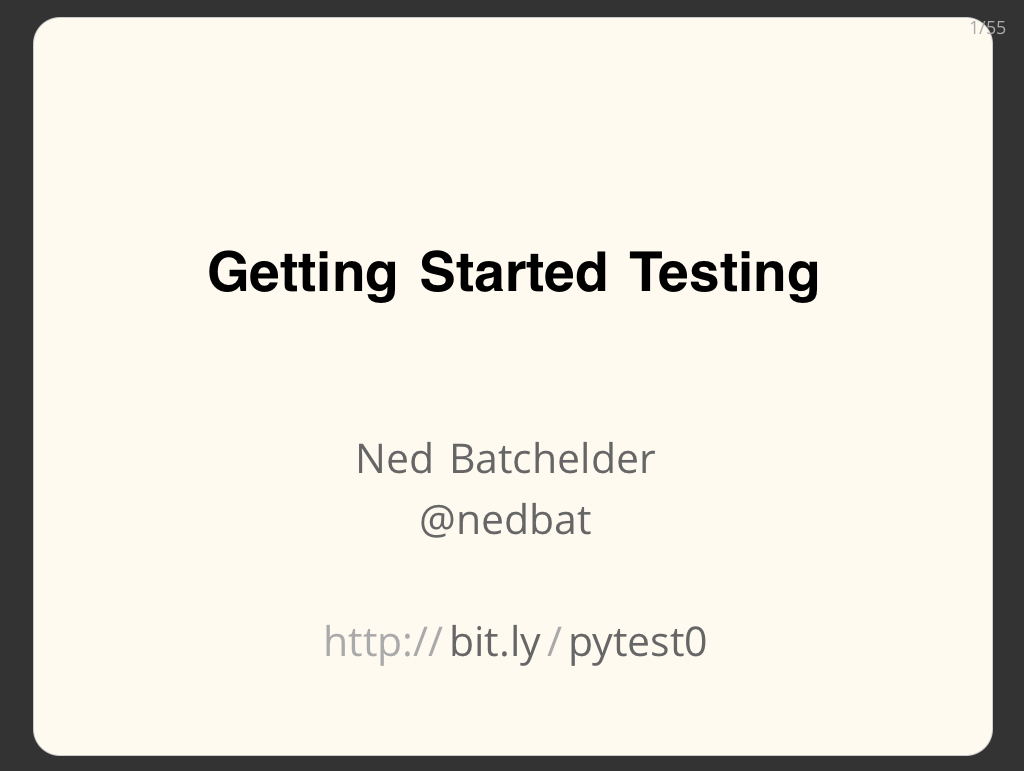
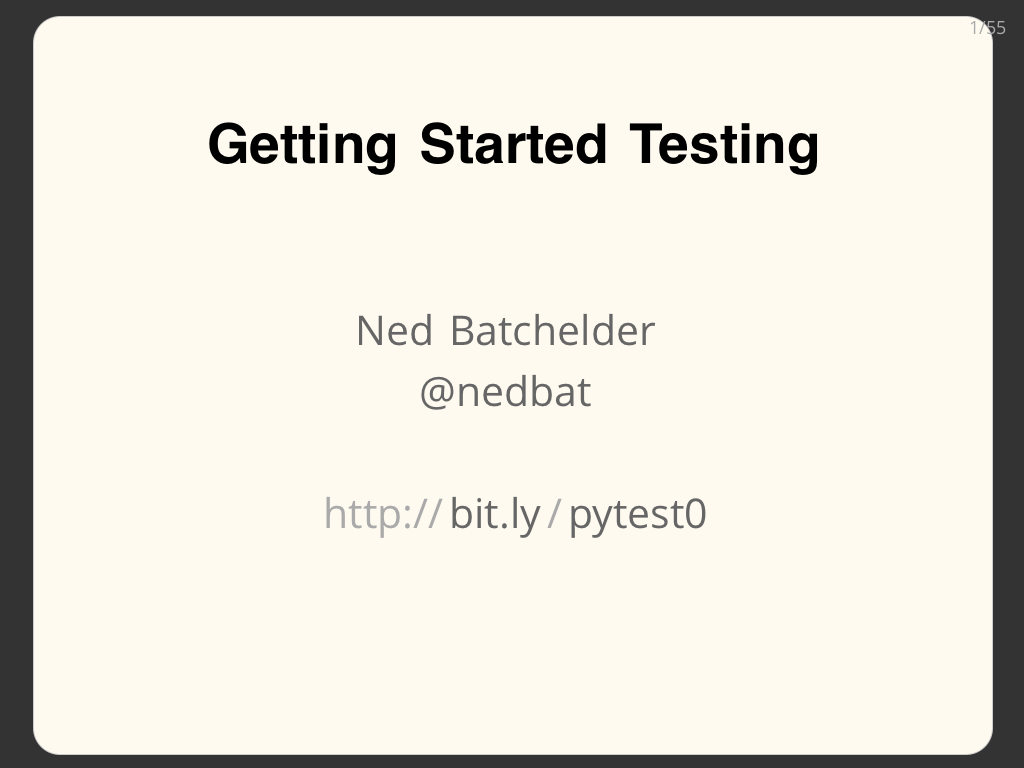
The final version of the talk

diff --git a/pages/text/test0/test0.html b/pages/text/test0/test0.html
@@ -238,7 +238,7 @@ from cogutil import *
         }
 
         .slide .code {
-            font-family: monaco, Consolas, monaco, monospace;
+            font-family: Consolas, monaco, monospace;
             font-weight: 600;
             margin-top: 1em;
             background: #ccf;
@@ -446,23 +446,21 @@ from cogutil import *
 
 <div class="text"><!-- {{{ -->
 
-    <p>This is a presentation I am giving at PyCon 2014.  You can read the
-    slides and text on this page, or open the <a href="text/test0/test0.html">actual presentation</a>
-    in your browser (use right and left arrows to advance the slides).</p>
-    <!--
+    <p>This is a presentation I gave at PyCon 2014.  You can read the
+    slides and text on this page, open the <a href="text/test0/test0.html">actual presentation</a>
+    in your browser (use right and left arrows to advance the slides),
     or watch the video:</p>
 
     <p align="center">
-    <iframe width="500" height="369" src="http://www.youtube.com/embed/EnSu9hHGq5o" frameborder="0" allowfullscreen="allowfullscreen"></iframe>
+    <iframe width="500" height="369" src="http://www.youtube.com/embed/FxSsnHeWQBY" frameborder="0" allowfullscreen="allowfullscreen"></iframe>
     </p>
-    -->
 
     <p>There is also a zipfile of <a href='text/test0/test0.zip'>all the code examples</a>.</p>
 
 </div><!-- }}} -->
 
 <div class="slide title" data-layout="clean">
-    <h1>Getting Started Testing</h1>
+    <h1 style="margin-top:-2em;">Getting Started Testing</h1>
     <h2>Ned Batchelder
     <br/>@nedbat
     <br/>
@@ -578,7 +576,7 @@ from cogutil import *
 
 <div class="slide">
     <h1>Chaos!</h1>
-    <p style='text-align: center'><img src='dadtoon-chaos-2.png' width="50%"/></p>
+    <p style='text-align: center; margin-top:-1em'><img src='dadtoon-chaos-2.png' width="60%"/></p>
 </div>
 
 <div class="text"><!-- {{{ -->
@@ -1062,14 +1060,20 @@ assert p.cost() == 21263.0
     <!--
     $ python porttest3_broken.py
     Empty portfolio cost: 0.0, should be 0.0
-    With 100 IBM @ 176.48: 17648.0, should be 17648.0
-    With 100 HPQ @ 36.15: 21263.0, should be 21263.0
+    With 100 IBM @ 176.48: 17648.0, should be 17600.0
+    Traceback (most recent call last):
+      File "porttest3_broken.py", line 9, in <module>
+        assert p.cost() == 17600.0
+    AssertionError
     -->
     <div class="code text"> <!-- {{{ -->
     <div class="line"><span class="lineno">1</span> $&#xA0;python&#xA0;porttest3_broken.py&nbsp;</div>
     <div class="line"><span class="lineno">2</span> Empty&#xA0;portfolio&#xA0;cost:&#xA0;0.0,&#xA0;should&#xA0;be&#xA0;0.0&nbsp;</div>
-    <div class="line"><span class="lineno">3</span> With&#xA0;100&#xA0;IBM&#xA0;@&#xA0;176.48:&#xA0;17648.0,&#xA0;should&#xA0;be&#xA0;17648.0&nbsp;</div>
-    <div class="line"><span class="lineno">4</span> With&#xA0;100&#xA0;HPQ&#xA0;@&#xA0;36.15:&#xA0;21263.0,&#xA0;should&#xA0;be&#xA0;21263.0&nbsp;</div>
+    <div class="line"><span class="lineno">3</span> With&#xA0;100&#xA0;IBM&#xA0;@&#xA0;176.48:&#xA0;17648.0,&#xA0;should&#xA0;be&#xA0;17600.0&nbsp;</div>
+    <div class="line"><span class="lineno">4</span> Traceback&#xA0;(most&#xA0;recent&#xA0;call&#xA0;last):&nbsp;</div>
+    <div class="line"><span class="lineno">5</span> &#xA0;&#xA0;File&#xA0;&quot;porttest3_broken.py&quot;,&#xA0;line&#xA0;9,&#xA0;in&#xA0;&lt;module&gt;&nbsp;</div>
+    <div class="line"><span class="lineno">6</span> &#xA0;&#xA0;&#xA0;&#xA0;assert&#xA0;p.cost()&#xA0;==&#xA0;17600.0&nbsp;</div>
+    <div class="line"><span class="lineno">7</span> AssertionError&nbsp;</div>
     </div><!-- }}} -->
     <!--[[[end]]] }}}-->
     <ul>
@@ -1092,8 +1096,11 @@ assert p.cost() == 21263.0
 <code lang='text'>
 $ python porttest3_broken.py
 Empty portfolio cost: 0.0, should be 0.0
-With 100 IBM @ 176.48: 17648.0, should be 17648.0
-With 100 HPQ @ 36.15: 21263.0, should be 21263.0
+With 100 IBM @ 176.48: 17648.0, should be 17600.0
+Traceback (most recent call last):
+  File "porttest3_broken.py", line 9, in &lt;module>
+    assert p.cost() == 17600.0
+AssertionError
 </code>
 <!--[[[end]]] }}}-->
 
@@ -2020,7 +2027,7 @@ FAILED (errors=1)
     TypeError: buy() takes exactly 4 arguments (2 given)
 
     ––––––––––––––––––––––––––––––––––––––––––––––––––––––––––––
-    Ran 4 tests in 0.001s
+    Ran 4 tests in 0.000s
 
     FAILED (errors=1)
     -->
@@ -2036,7 +2043,7 @@ FAILED (errors=1)
     <div class="line"><span class="lineno"> 9</span> TypeError:&#xA0;buy()&#xA0;takes&#xA0;exactly&#xA0;4&#xA0;arguments&#xA0;(2&#xA0;given)&nbsp;</div>
     <div class="line"><span class="lineno">10</span>&nbsp;</div>
     <div class="line"><span class="lineno">11</span> ------------------------------------------------------------&nbsp;</div>
-    <div class="line"><span class="lineno">12</span> Ran&#xA0;4&#xA0;tests&#xA0;in&#xA0;0.001s&nbsp;</div>
+    <div class="line"><span class="lineno">12</span> Ran&#xA0;4&#xA0;tests&#xA0;in&#xA0;0.000s&nbsp;</div>
     <div class="line"><span class="lineno">13</span>&nbsp;</div>
     <div class="line"><span class="lineno">14</span> FAILED&#xA0;(errors=1)&nbsp;</div>
     </div><!-- }}} -->
@@ -2073,7 +2080,7 @@ Traceback (most recent call last):
 TypeError: buy() takes exactly 4 arguments (2 given)
 
 ------------------------------------------------------------
-Ran 4 tests in 0.001s
+Ran 4 tests in 0.000s
 
 FAILED (errors=1)
 </code>
@@ -3115,10 +3122,10 @@ class PortfolioSellTest(PortfolioTestCase):
     >>> p.buy("HPQ", 100, 30.0)
 
     >>> p.current_prices()
-    {'HPQ': 32.72, 'IBM': 196.64}
+    {'HPQ': 32.45, 'IBM': 195.19}
 
     >>> p.value()
-    22936.0
+    22764.0
 
 
     -->
@@ -3128,10 +3135,10 @@ class PortfolioSellTest(PortfolioTestCase):
     <div class="line"><span class="gp">&gt;&gt;&gt;&#xA0;</span><span class="n">p</span><span class="o">.</span><span class="n">buy</span><span class="p">(</span><span class="s">&quot;HPQ&quot;</span><span class="p">,</span>&#xA0;<span class="mi">100</span><span class="p">,</span>&#xA0;<span class="mf">30.0</span><span class="p">)</span>&nbsp;</div>
     <div class="line">&nbsp;</div>
     <div class="line"><span class="gp">&gt;&gt;&gt;&#xA0;</span><span class="n">p</span><span class="o">.</span><span class="n">current_prices</span><span class="p">()</span>&nbsp;</div>
-    <div class="line"><span class="go">{&#39;HPQ&#39;:&#xA0;32.72,&#xA0;&#39;IBM&#39;:&#xA0;196.64}</span>&nbsp;</div>
+    <div class="line"><span class="go">{&#39;HPQ&#39;:&#xA0;32.45,&#xA0;&#39;IBM&#39;:&#xA0;195.19}</span>&nbsp;</div>
     <div class="line">&nbsp;</div>
     <div class="line"><span class="gp">&gt;&gt;&gt;&#xA0;</span><span class="n">p</span><span class="o">.</span><span class="n">value</span><span class="p">()</span>&nbsp;</div>
-    <div class="line"><span class="go">22936.0</span>&nbsp;</div>
+    <div class="line"><span class="go">22764.0</span>&nbsp;</div>
     </div><!-- }}} -->
     <!--[[[end]]] }}}-->
 </div>
